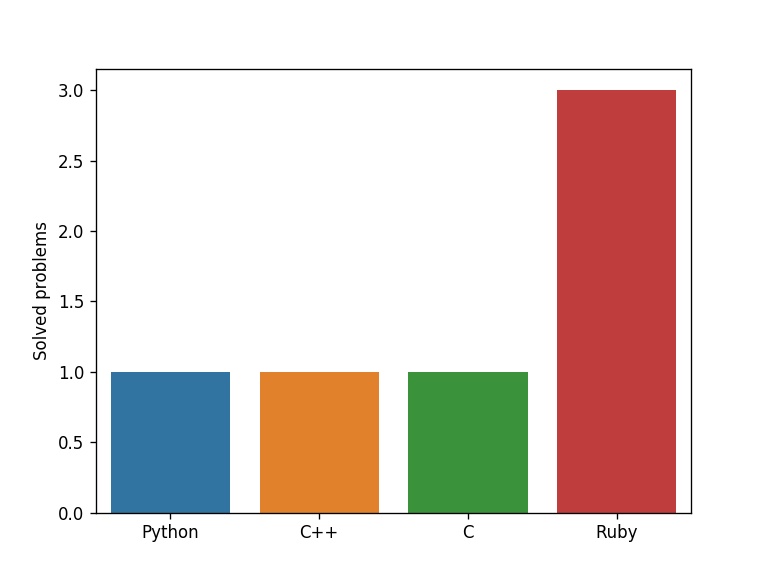
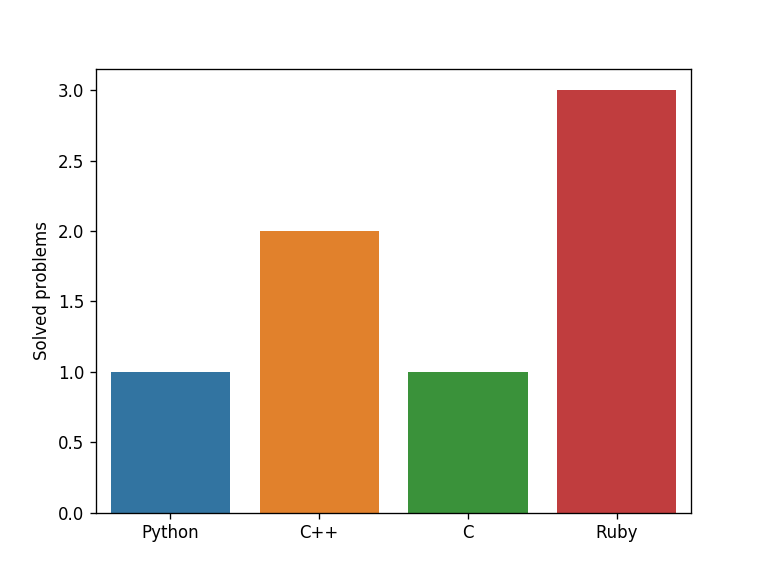
Problem 7

Changed region(s): [[0.3125, 0.375, 0.5, 0.6562]]

diff --git a/problems/007_nth_prime.cpp b/problems/007_nth_prime.cpp
@@ -1,0 +1,30 @@
+#include <iostream>
+#include <math.h>
+
+using namespace std;
+
+bool is_prime(int n){
+    int limit = sqrt(n) + 1;
+    for (int i = 3; i <= limit; i += 2){
+        if (n % i == 0) return false;
+    }
+    return true;
+}
+
+int main(){
+    int prime_counter = 2;
+    int test_number = 5;
+
+    while (prime_counter < 10001){
+        if (is_prime(test_number)){
+            ++prime_counter;
+            //cout << test_number << " is prime" << endl;
+        }
+        test_number += 2;
+    }
+    test_number -= 2;
+
+    cout << test_number << endl;
+
+    return 0;
+}
